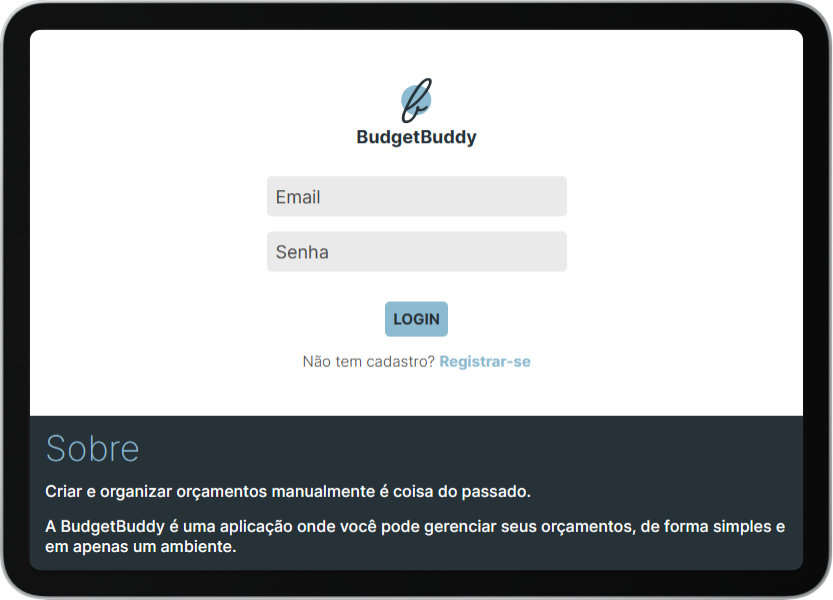
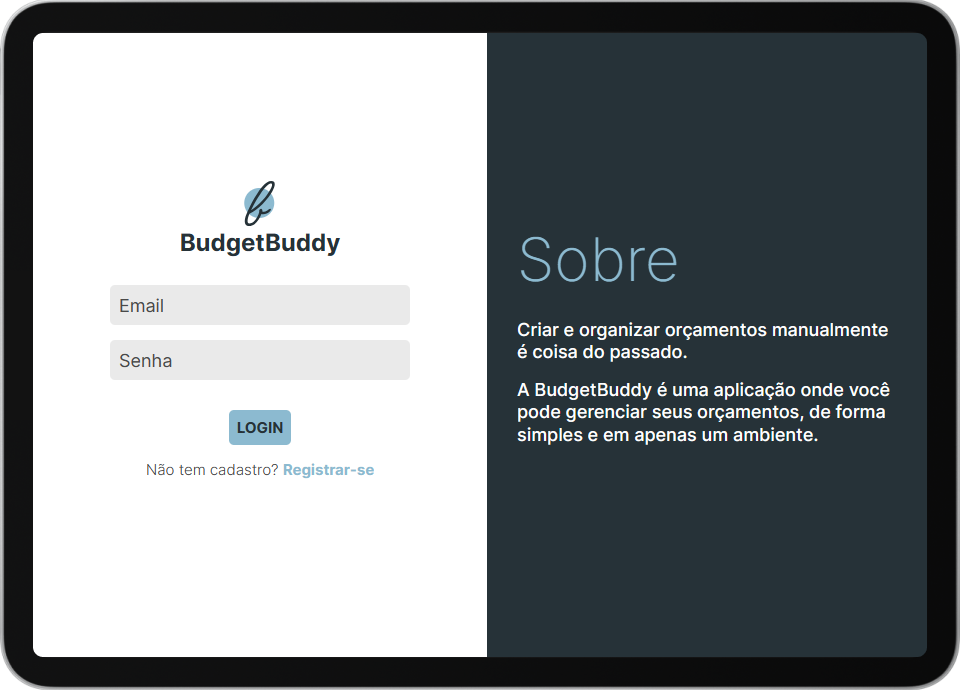
..

diff --git a/src/components/Projects/index.js b/src/components/Projects/index.js
@@ -32,6 +32,7 @@ export default function () {
       display: flex;
       flex-direction: row;
       gap: ${(props) => props.theme.mensure.double};
+      flex-wrap: nowrap;
    `;
 
    const Main = styled.div`
@@ -50,7 +51,7 @@ export default function () {
    const Image = styled.img`
       max-width: 833px;
       flex: 1;
-      min-width: 300px;
+      min-width: 428px;
    `;
 
    return (

diff --git a/src/ui/Text/index.js b/src/ui/Text/index.js
@@ -9,6 +9,10 @@ export default function Text({ type, children, align }) {
       color: ${(props) => props.theme.color.dark};
       text-align: ${align};
       cursor: default;
+
+      @media (max-width: ${(props) => props.theme.screen.l}) {
+         font-size: ${(props) => props.theme.size.large};
+      }
    `;
    const D2 = styled.span`
       font-size: ${(props) => props.theme.size.large};

diff --git a/src/components/About/index.js b/src/components/About/index.js
@@ -33,7 +33,7 @@ export default function () {
       display: flex;
       flex-direction: column;
       gap: ${(props) => props.theme.mensure.double};
-      width: 35vw;
+      width: 40vw;
    `;
 
    const ImageContainer = styled.div`

diff --git a/src/styles/theme.js b/src/styles/theme.js
@@ -30,6 +30,13 @@ const theme = {
       extra: '7.8125rem',
       fit: '80%',
    },
+   screen: {
+      xs: '320px',
+      s: '640px',
+      m: '768px',
+      l: '1024px',
+      xl: '1440px',
+   },
 };
 
 export default theme;
